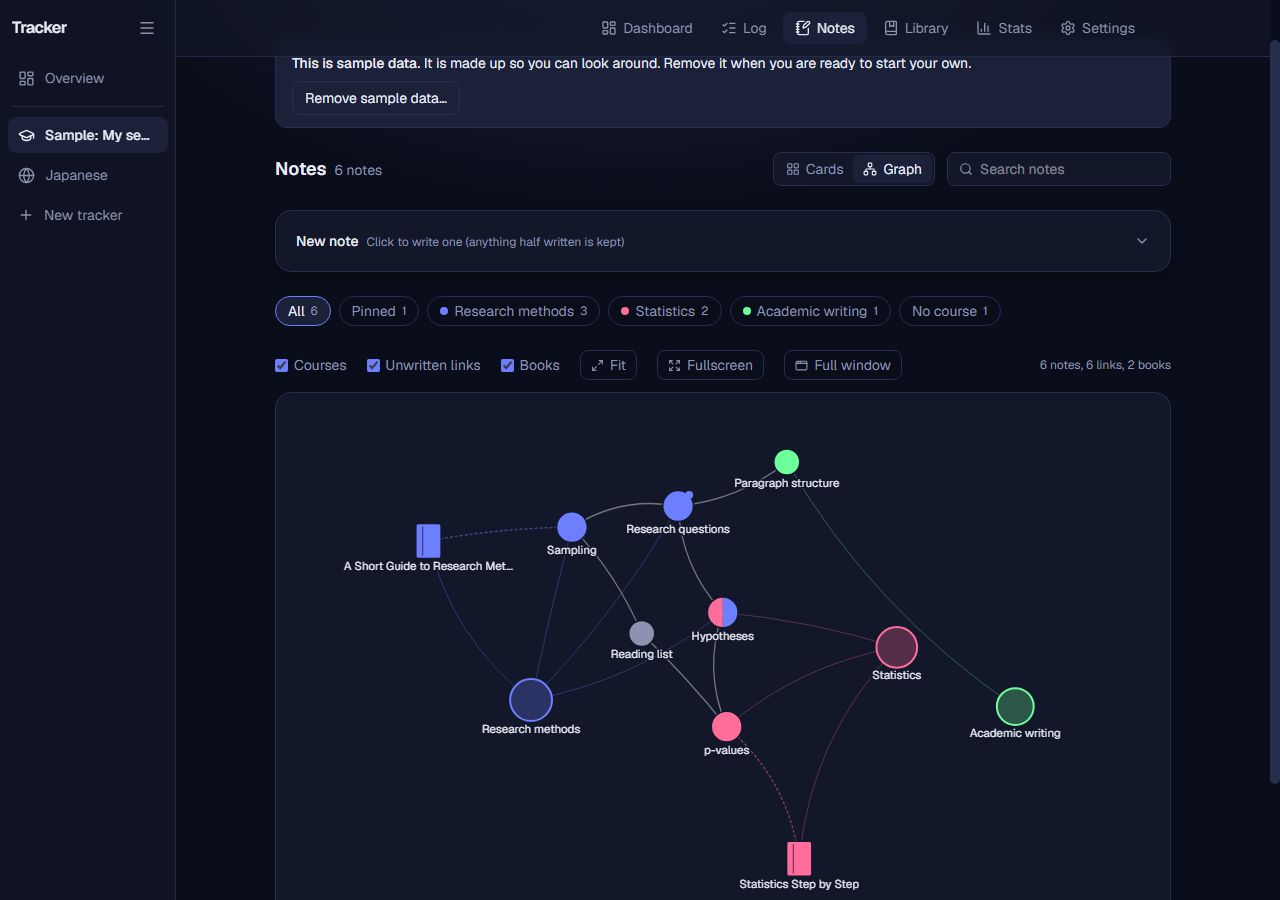
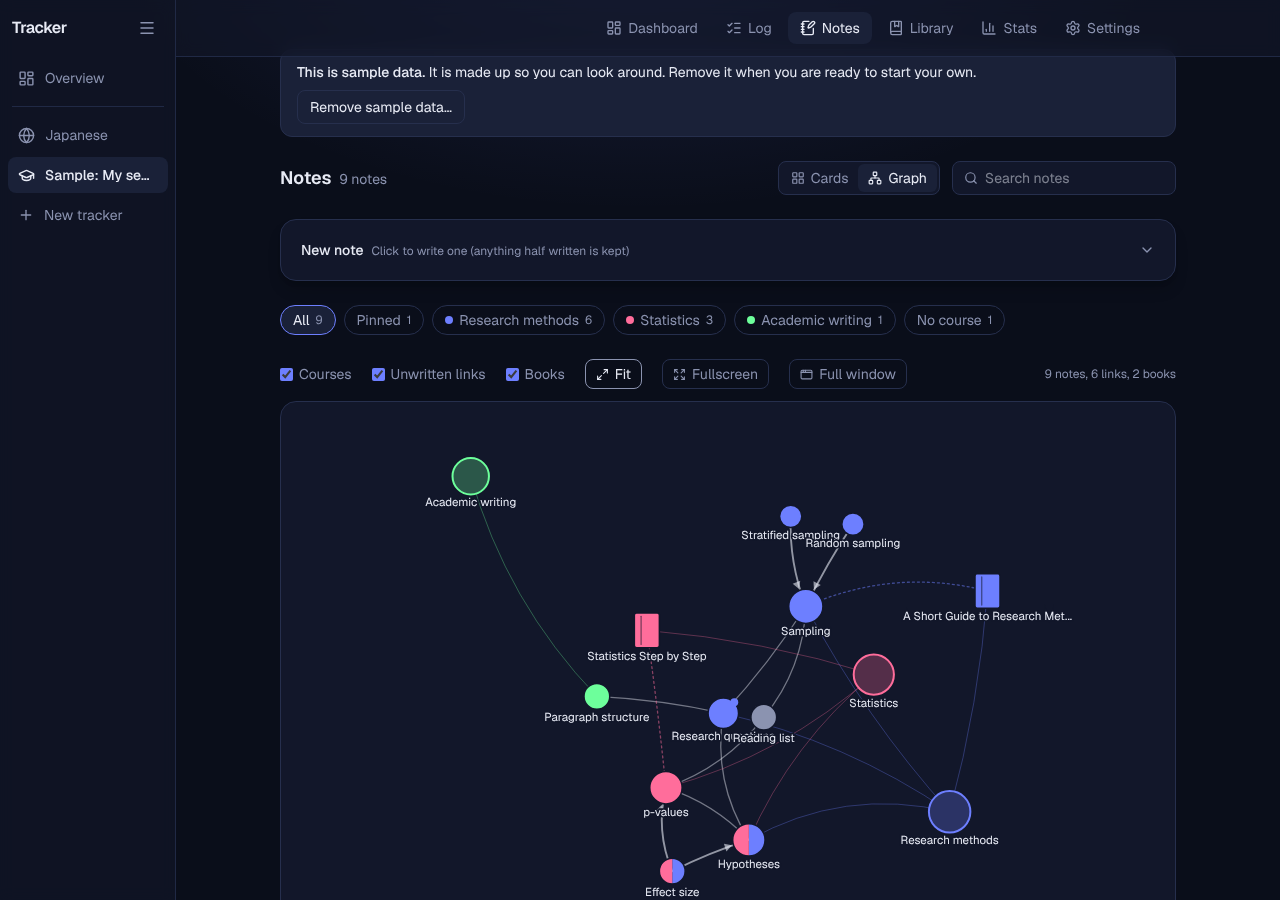
Update the site

diff --git a/docs/manual.html b/docs/manual.html
@@ -23,7 +23,7 @@
   </header>
 
   <h1>The full user manual</h1>
-  <p class="lead">Everything Tracker does, part by part. New here? Start with <a href="guide.html">Getting started in ten minutes</a>. This manual describes version 0.5.0; later versions may add things, and Overview, Settings, About lists what changed.</p>
+  <p class="lead">Everything Tracker does, part by part. New here? Start with <a href="guide.html">Getting started in ten minutes</a>. This manual describes version 0.7.0; later versions may add things, and Overview, Settings, About lists what changed.</p>
 
   <div class="layout">
     <nav class="toc" aria-label="Contents">
@@ -99,7 +99,7 @@
         <figure class="shot"><a class="zoom" href="img/welcome.png"><img src="img/welcome.png" width="1280" height="940" alt="The Tracker welcome page with four starting points and a button to try the sample data." loading="lazy"></a><figcaption>The welcome page.</figcaption></figure>
         <ul>
           <li><strong>Start with your own tracker.</strong> Choose <em>A language I am learning</em>, <em>My studies (courses or a degree)</em>, <em>Research or a thesis</em> or <em>Something else</em>. Each comes with sensible activities and a symbol you can change later. Then name it, say what each part is called (one word, like Course, Language or Topic) and optionally type your first ones separated by commas. <em>Create my tracker</em> makes it.</li>
-          <li><strong>Try it with sample data.</strong> Adds a made-up semester: three courses, four weeks of sessions, six linked notes, two books and goals. A banner on every page says it is sample data and has <em>Remove sample data</em>, which takes only the sample away (a copy of your data is saved first).</li>
+          <li><strong>Try it with sample data.</strong> Adds a made-up semester: three courses, four weeks of sessions, nine linked notes (some written under others), two books and goals. A banner on every page says it is sample data and has <em>Remove sample data</em>, which takes only the sample away (a copy of your data is saved first).</li>
           <li><strong>I already have a copy of my data.</strong> Opens the restore and import options, for a copy or export from another computer (see <a href="#data">Backups, exports, moving</a>).</li>
         </ul>
         <p><strong>More trackers:</strong> press <strong>New tracker</strong> at the bottom of the sidebar. <strong>Changing one:</strong> its own Settings, <em>This tracker</em>, lets you change its <strong>symbol</strong> (an icon chosen from a set, which also shows in the sidebar and on the Overview) and name, what each part is called, its daily goal, and its order in the sidebar. <strong>Deleting one:</strong> <em>Delete this tracker</em> in the same place. Tracker shows what will be removed (sessions, courses, activities, notes and books), and if the tracker holds any sessions, notes or books it asks you to type the tracker&rsquo;s name before <em>Delete permanently</em> works. A copy of your data is saved first (&ldquo;Before a delete&rdquo; in the list of saved copies).</p>
@@ -174,23 +174,36 @@
           <li><strong>Pictures</strong>: paste a screenshot, or use the picture button. They are stored inside your data (see <a href="#data">Backups</a>).</li>
           <li><strong>Start from</strong>: <em>Learned</em>, <em>Question</em>, <em>Checklist</em> and <em>Terms</em> fill in a starting shape.</li>
           <li><strong>Courses</strong>: tick one or several; the note then appears under each. <strong>About</strong> ties it to a book or article, with an optional page number. A thin line of each course's colour runs along the top of the card (a note in several courses shows every colour side by side) and curves with the card's corners in every theme.</li>
+          <li><strong>Under</strong>: put the note under one or more other notes (type part of a title and pick it; the &times; takes it out again). See <a href="#notes-under">Notes under notes</a>.</li>
           <li><strong>Pin</strong> keeps a note at the top. <kbd>Ctrl</kbd>+<kbd>Enter</kbd> saves.</li>
           <li>You can also write a note right after a session (see <a href="#timer">The timer</a>) or about a session in the Log.</li>
         </ul>
         <h3>Linking</h3>
         <p>Type a note&rsquo;s title between double brackets, like <code>[[Sampling]]</code>, and it becomes a link. A link to a title that does not exist yet is shown as an &ldquo;unwritten link&rdquo;, ready to be written. Each card lists <strong>Linked from</strong>: the notes that point to it.</p>
+        <h3 id="notes-under">Notes under notes</h3>
+        <p>A note can sit under another note, for example <em>Random sampling</em> under <em>Sampling</em>. A note can be under several notes at once, and a note under a note can have notes under it too, as deep as you like. Put a note under another with <strong>Under</strong> in its editor, or with <strong>Put under...</strong> in the graph.</p>
+        <ul>
+          <li>A note is in the courses of every note above it as well as in its own. In the example, <em>Random sampling</em> is in Research methods because <em>Sampling</em> is, without being given that course itself. You can still give it a course of its own as well.</li>
+          <li>Each card shows <strong>Under</strong> with the notes it is under, and how many notes are under it; click one to go to it.</li>
+          <li>A note cannot be put under itself, or under a note that is already under it. Tracker refuses that and says why.</li>
+          <li><strong>Deleting</strong> a note that has notes under it keeps them: they are given its courses and move up to the notes it was under. The question before deleting says so.</li>
+          <li>A [[link]] and being under a note are separate: removing one leaves the other.</li>
+        </ul>
         <h3>Finding</h3>
-        <p>Filter by <em>All</em>, <em>Pinned</em>, a course, or <em>No course</em>, or type in <strong>Search notes</strong>. Notes can be dragged into your own order.</p>
+        <p>Filter by <em>All</em>, <em>Pinned</em>, a course, or <em>No course</em>, or type in <strong>Search notes</strong>. A course lists its notes and the notes under them. Notes can be dragged into your own order.</p>
         <h3>The graph</h3>
         <p>Press <strong>Graph</strong> (next to <em>Cards</em>) to see your notes as dots joined by their links. Courses are the large ring-shaped dots, books are rectangles, notes are dots coloured by course (a note in two courses is split in two colours).</p>
-        <figure class="shot"><a class="zoom" href="img/graph.png"><img src="img/graph.png" width="1280" height="900" alt="The notes graph with labelled dots for notes, courses and books and lines for links." loading="lazy"></a><figcaption>The graph. Drag a dot to move it; click one to open the note.</figcaption></figure>
+        <figure class="shot"><a class="zoom" href="img/graph.png"><img src="img/graph.png" width="1280" height="900" alt="The notes graph with labelled dots for notes, courses and books, lines for links, and arrows from Random sampling and Stratified sampling to Sampling, the note they are under." loading="lazy"></a><figcaption>The graph. Drag a dot to move it; click one to open the note.</figcaption></figure>
         <ul>
           <li>The tick boxes <strong>Courses</strong>, <strong>Unwritten links</strong> and <strong>Books</strong> show or hide those kinds of dots; <strong>Fit</strong> fits everything in view. Your choices are remembered.</li>
           <li><strong>Click a dot or a line</strong> and its details open in a <strong>bubble</strong> beside it. The bubble follows the dot when you move or zoom the picture, opens on the dot&rsquo;s other side near the edge of the picture, and has the buttons <em>Open note</em> (or <em>Open in Library</em> for a book), <em>Connect to...</em> and <em>Clear</em>. Clicking empty space closes it.</li>
           <li><strong>Full window</strong> (next to Fullscreen) makes the graph fill this browser window, without taking over the screen. It is for people who keep Tracker in a smaller window beside other things. The tick boxes and Fit come along, <kbd>Esc</kbd> leaves it, and <em>Open note</em> leaves it before showing the note. It works together with Fullscreen.</li>
           <li><strong>Fullscreen</strong> (when your browser allows it) gives the graph the whole screen. <kbd>Esc</kbd> leaves it.</li>
+          <li>A <strong>solid line with a small arrowhead</strong> runs from a note to each note it is under and pulls it close, so the notes under a note gather around it. A note has a line to a course only for the courses you gave it yourself; it reaches the others through the notes above it. If a [[link]] also joins the two notes, they share that one line.</li>
+          <li><strong>Put under...</strong> (next to <em>Connect to...</em> when a note is selected) puts it under the note you click next. Select an arrow line and press <em>Disconnect</em> to take a note out from under another.</li>
           <li>A connection can carry a short <strong>comment</strong> that keeps its history, so you can write why two notes belong together. The comment is written along the line, tilted with it and cut with &ldquo;...&rdquo; to fit between the two dots; select the line to read it in full.</li>
           <li>In Overview, Settings, <em>Notes graph</em> you can choose the shape of each kind of dot and how the graph moves (it follows your computer&rsquo;s &ldquo;reduce motion&rdquo; setting by default).</li>
+          <li><strong>Customise</strong>, in the same place, starts closed and is optional. For every kind of line (links, subfield lines, book lines, under lines and suggestions) you can set its style (solid, dashed or dotted), width, colour, opacity and strength (how hard it pulls its two dots together); for every kind of dot its fill colour and opacity and its border colour and width; and the general pull: <em>Spread</em> (how hard dots push apart) and <em>Centre</em> (how hard everything is pulled to the middle). <em>Automatic</em> keeps the colour the graph picks itself, such as a course&rsquo;s colour. A line still lights up when its dot is selected and fades when another is. <strong>Back to the defaults</strong> brings back the usual look. The choices are kept in this browser and used in every tracker.</li>
         </ul>
         <figure class="shot"><a class="zoom" href="img/graph-fullscreen.png"><img src="img/graph-fullscreen.png" width="1280" height="800" alt="The notes graph shown fullscreen, with a bubble beside the clicked note Research questions showing its course, its text, the notes it connects to and the buttons Open note, Connect to and Clear." loading="lazy"></a><figcaption>Fullscreen: the details of a clicked note open in a bubble beside its dot.</figcaption></figure>
 

diff --git a/docs/index.html b/docs/index.html
@@ -146,7 +146,7 @@ footer p { margin: 0 0 8px; }
         <figure class="shot"><a class="zoom" href="img/timer-running.png"><img loading="lazy" src="img/timer-running.png" width="1280" height="860" alt="The dashboard while a session is being timed: a clock at 00:00:06 with a Recording label, Pause and Stop and save buttons, and weekly goal bars beside it."></a><figcaption>The timer keeps running if you close the page. Started late? Move the start back.</figcaption></figure>
         <figure class="shot"><a class="zoom" href="img/log.png"><img loading="lazy" src="img/log.png" width="1280" height="940" alt="The log page: a form to add a past session above the list of all sessions."></a><figcaption>Forgot to start the timer? Add a past session by hand, and edit or delete any session later.</figcaption></figure>
         <figure class="shot"><a class="zoom" href="img/notes.png"><img loading="lazy" src="img/notes.png" width="1280" height="900" alt="The notes page as cards: a pinned note and five more, each marked with its course by a coloured dot, with links between notes shown as small tags such as Linked from Reading list."></a><figcaption>Notes link to each other with double brackets, and show what links back.</figcaption></figure>
-        <figure class="shot"><a class="zoom" href="img/graph.png"><img loading="lazy" src="img/graph.png" width="1280" height="900" alt="The notes graph: notes, courses and books drawn as coloured dots and shapes joined by lines, with labels such as Sampling, Hypotheses and p-values."></a><figcaption>The notes graph shows how your notes, courses and books connect.</figcaption></figure>
+        <figure class="shot"><a class="zoom" href="img/graph.png"><img loading="lazy" src="img/graph.png" width="1280" height="900" alt="The notes graph: notes, courses and books drawn as coloured dots and shapes joined by lines, with labels such as Sampling, Hypotheses and p-values, and arrows from notes to the notes they are under."></a><figcaption>The notes graph shows how your notes, courses and books connect.</figcaption></figure>
         <figure class="shot"><a class="zoom" href="img/library.png"><img loading="lazy" src="img/library.png" width="1280" height="900" alt="The library: two books with reading progress, pages per hour, an estimate of the time left and a field for the page you are on."></a><figcaption>The library tracks what you read, how fast, and how long it will take.</figcaption></figure>
         <figure class="shot"><a class="zoom" href="img/stats.png"><img loading="lazy" src="img/stats.png" width="1280" height="900" alt="The stats page: a bar chart of daily study time over 30 days split by course and coloured by activity, above a comparison of this week with last week."></a><figcaption>Stats: where the time went, and how this week compares.</figcaption></figure>
         <figure class="shot"><a class="zoom" href="img/overview.png"><img loading="lazy" src="img/overview.png" width="1280" height="900" alt="The overview page that adds up two trackers: totals for today, this week and all time, a day streak, a daily chart and a split of time by tracker."></a><figcaption>The overview adds up all your trackers, for example a language and a degree.</figcaption></figure>
